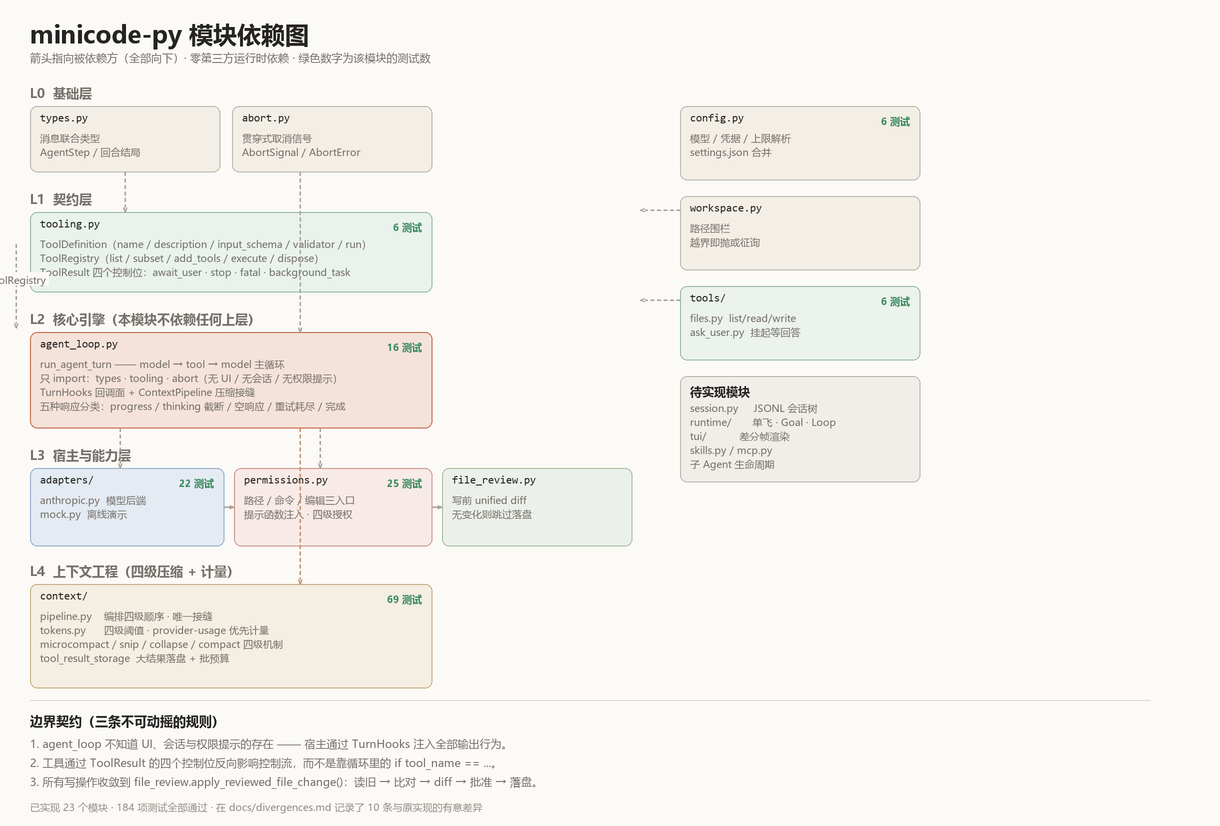
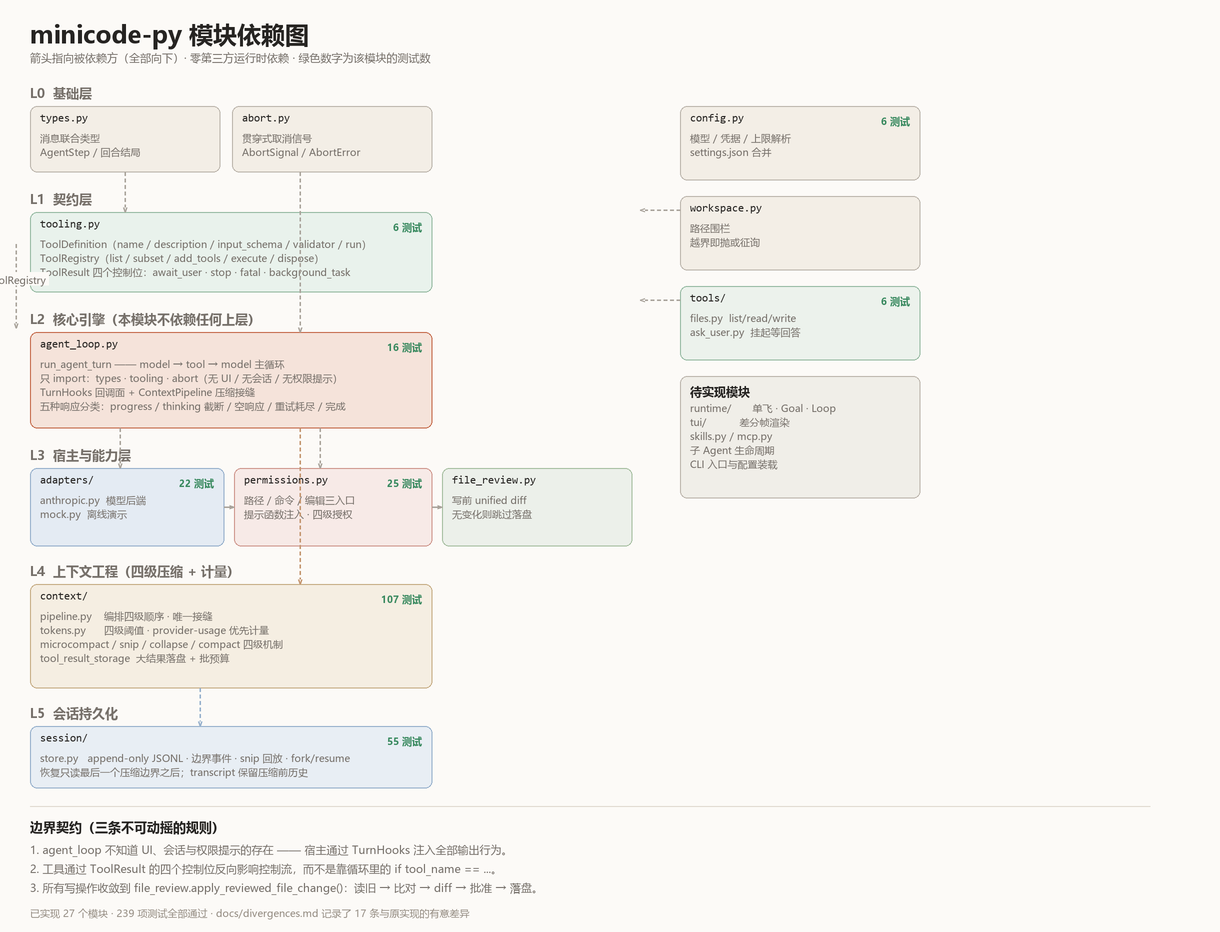
fix(docs): rewrite diagram generator after encoding corruption; add session layer

diff --git a/docs/gen_module_diagram.py b/docs/gen_module_diagram.py
@@ -1,19 +1,22 @@
-# -*- coding: utf-8 -*-
+# -*- coding: utf-8 -*-
 """Render the minicode-py module dependency diagram to PNG (Pillow).
 
 Layered by dependency depth: everything points downward, nothing points up.
+
+NOTE: always edit this file with a UTF-8 aware tool. A previous version was
+mangled by round-tripping it through PowerShell `Get-Content`/`Set-Content`,
+which decoded UTF-8 as the system ANSI codepage and destroyed the CJK text.
 """
 import os
 from PIL import Image, ImageDraw, ImageFont
 
 S = 2
-W, H = 1220, 960
+W, H = 1220, 980
 OUT = os.path.join(os.path.dirname(os.path.abspath(__file__)), "minicode-py-modules.png")
 
 FONT_CJK = r"C:\Windows\Fonts\msyh.ttc"
 FONT_CJK_B = r"C:\Windows\Fonts\msyhbd.ttc"
 FONT_MONO = r"C:\Windows\Fonts\consola.ttf"
-FONT_MONO_B = r"C:\Windows\Fonts\consolab.ttf"
 
 INK = (38, 36, 34)
 MUTED = (118, 112, 106)
@@ -37,7 +40,6 @@ F = {
     "bs": f(FONT_CJK, 10),
     "mono": f(FONT_MONO, 11),
     "mono_b": f(FONT_CJK_B, 12),
-    "mono_s": f(FONT_MONO, 10),
     "tag": f(FONT_CJK_B, 10),
 }
 
@@ -55,8 +57,10 @@ def has_cjk(text):
 
 
 def title_font(text):
-    """绛夊瀛椾綋锛圕onsolas锛夋病鏈変腑鏂囧瓧褰紝鍚腑鏂囨椂蹇呴』鎹㈢敤闆呴粦銆?
-    杩欐鏄箣鍓嶆爣棰樻覆鏌撴垚涔辩爜鐨勫師鍥狅細瀛椾綋缂哄瓧褰笉浼氭姤閿欙紝鍙細鐢诲嚭閿欏瓧銆?    """
+    """Consolas has no CJK glyphs; a missing glyph renders as garbage, silently.
+
+    So any box title containing Chinese must use the CJK face instead.
+    """
     return F["mono"] if not has_cjk(text) else F["mono_b"]
 
 
@@ -65,10 +69,9 @@ def box(x, y, w, h, title, lines, fill, edge, tested=None):
         [px(x), px(y), px(x + w), px(y + h)], radius=px(7), fill=fill,
         outline=edge, width=max(1, px(0.9)),
     )
-    font = title_font(title)
-    d.text((px(x + 10), px(y + 7)), title, font=font, fill=INK)
+    d.text((px(x + 10), px(y + 7)), title, font=title_font(title), fill=INK)
     if tested:
-        label = f"{tested} 娴嬭瘯"
+        label = f"{tested} 测试"
         d.text((px(x + w - 10 - tw(label, F["tag"])), px(y + 8)), label,
                font=F["tag"], fill=GREEN)
     for i, line in enumerate(lines):
@@ -76,8 +79,8 @@ def box(x, y, w, h, title, lines, fill, edge, tested=None):
 
 
 def arrow(x1, y1, x2, y2, color=GREY, dashed=False, label=None, lw=1.3):
+    import math
     if dashed:
-        import math
         dx, dy = x2 - x1, y2 - y1
         dist = math.hypot(dx, dy)
         if dist < 1:
@@ -91,7 +94,6 @@ def arrow(x1, y1, x2, y2, color=GREY, dashed=False, label=None, lw=1.3):
             t += 6.5
     else:
         d.line([px(x1), px(y1), px(x2), px(y2)], fill=color, width=max(1, px(lw)))
-    import math
     ang = math.atan2(y2 - y1, x2 - x1)
     for s in (0.9, -0.9):
         d.line([px(x2), px(y2),
@@ -106,98 +108,95 @@ def arrow(x1, y1, x2, y2, color=GREY, dashed=False, label=None, lw=1.3):
 
 
 # ---------------- header ----------------
-d.text((px(30), px(18)), "minicode-py 妯″潡渚濊禆鍥?, font=F["h1"], fill=INK)
+d.text((px(30), px(18)), "minicode-py 模块依赖图", font=F["h1"], fill=INK)
 d.text((px(30), px(50)),
-       "绠ご鎸囧悜琚緷璧栨柟锛堝叏閮ㄥ悜涓嬶級路 闆剁涓夋柟杩愯鏃朵緷璧?路 缁胯壊鏁板瓧涓鸿妯″潡鐨勬祴璇曟暟",
+       "箭头指向被依赖方（全部向下）· 零第三方运行时依赖 · 绿色数字为该模块的测试数",
        font=F["b"], fill=MUTED)
 
 # ---------------- L0 foundations ----------------
-d.text((px(30), px(84)), "L0  鍩虹灞?, font=F["h2"], fill=MUTED)
-box(30, 106, 190, 66, "types.py", ["娑堟伅鑱斿悎绫诲瀷", "AgentStep / 鍥炲悎缁撳眬"], (243, 238, 230), LINE)
-box(232, 106, 200, 66, "abort.py", ["璐┛寮忓彇娑堜俊鍙?, "AbortSignal / AbortError"], (243, 238, 230), LINE)
+d.text((px(30), px(84)), "L0  基础层", font=F["h2"], fill=MUTED)
+box(30, 106, 190, 66, "types.py", ["消息联合类型", "AgentStep / 回合结局"], (243, 238, 230), LINE)
+box(232, 106, 200, 66, "abort.py", ["贯穿式取消信号", "AbortSignal / AbortError"], (243, 238, 230), LINE)
 
 # ---------------- L1 contract ----------------
-d.text((px(30), px(190)), "L1  濂戠害灞?, font=F["h2"], fill=MUTED)
+d.text((px(30), px(190)), "L1  契约层", font=F["h2"], fill=MUTED)
 box(30, 212, 402, 80, "tooling.py",
-    ["ToolDefinition锛坣ame / description / input_schema / validator / run锛?,
-     "ToolRegistry锛坙ist / subset / add_tools / execute / dispose锛?,
-     "ToolResult 鍥涗釜鎺у埗浣嶏細await_user 路 stop 路 fatal 路 background_task"],
+    ["ToolDefinition（name / description / input_schema / validator / run）",
+     "ToolRegistry（list / subset / add_tools / execute / dispose）",
+     "ToolResult 四个控制位：await_user · stop · fatal · background_task"],
     (233, 242, 236), (150, 186, 162), tested=6)
 
 # ---------------- L2 core ----------------
-d.text((px(30), px(310)), "L2  鏍稿績寮曟搸锛堟湰妯″潡涓嶄緷璧栦换浣曚笂灞傦級", font=F["h2"], fill=MUTED)
+d.text((px(30), px(310)), "L2  核心引擎（本模块不依赖任何上层）", font=F["h2"], fill=MUTED)
 box(30, 332, 402, 96, "agent_loop.py",
-    ["run_agent_turn 鈥斺€?model 鈫?tool 鈫?model 涓诲惊鐜?,
-     "鍙?import锛歵ypes 路 tooling 路 abort锛堟棤 UI / 鏃犱細璇?/ 鏃犳潈闄愭彁绀猴級",
-     "TurnHooks 鍥炶皟闈?+ ContextPipeline 鍘嬬缉鎺ョ紳",
-     "浜旂鍝嶅簲鍒嗙被锛歱rogress / thinking 鎴柇 / 绌哄搷搴?/ 閲嶈瘯鑰楀敖 / 瀹屾垚"],
+    ["run_agent_turn —— model → tool → model 主循环",
+     "只 import：types · tooling · abort（无 UI / 无会话 / 无权限提示）",
+     "TurnHooks 回调面 + ContextPipeline 压缩接缝",
+     "五种响应分类：progress / thinking 截断 / 空响应 / 重试耗尽 / 完成"],
     (245, 227, 218), (196, 106, 74), tested=16)
 
 # ---------------- L3 host-facing ----------------
-d.text((px(30), px(446)), "L3  瀹夸富涓庤兘鍔涘眰", font=F["h2"], fill=MUTED)
-box(30, 468, 194, 78, "adapters/", ["anthropic.py  妯″瀷鍚庣", "mock.py  绂荤嚎婕旂ず"],
+d.text((px(30), px(446)), "L3  宿主与能力层", font=F["h2"], fill=MUTED)
+box(30, 468, 194, 78, "adapters/", ["anthropic.py  模型后端", "mock.py  离线演示"],
     (228, 235, 243), (150, 176, 204), tested=22)
-box(234, 468, 198, 78, "permissions.py", ["璺緞 / 鍛戒护 / 缂栬緫涓夊叆鍙?, "鎻愮ず鍑芥暟娉ㄥ叆 路 鍥涚骇鎺堟潈"],
+box(234, 468, 198, 78, "permissions.py", ["路径 / 命令 / 编辑三入口", "提示函数注入 · 四级授权"],
     (247, 234, 231), (206, 150, 140), tested=25)
-box(442, 468, 190, 78, "file_review.py", ["鍐欏墠 unified diff", "鏃犲彉鍖栧垯璺宠繃钀界洏"],
+box(442, 468, 190, 78, "file_review.py", ["写前 unified diff", "无变化则跳过落盘"],
     (236, 240, 234), (166, 190, 160), tested=0)
 
 # ---------------- L4 context ----------------
-d.text((px(30), px(562)), "L4  涓婁笅鏂囧伐绋嬶紙鍥涚骇鍘嬬缉 + 璁￠噺锛?, font=F["h2"], fill=MUTED)
+d.text((px(30), px(562)), "L4  上下文工程（四级压缩 + 计量）", font=F["h2"], fill=MUTED)
 box(30, 584, 402, 104, "context/",
-    ["pipeline.py    缂栨帓鍥涚骇椤哄簭 路 鍞竴鎺ョ紳",
-     "tokens.py      鍥涚骇闃堝€?路 provider-usage 浼樺厛璁￠噺",
-     "microcompact / snip / collapse / compact 鍥涚骇鏈哄埗",
-     "tool_result_storage  澶х粨鏋滆惤鐩?+ 鎵归绠?],
+    ["pipeline.py    编排四级顺序 · 唯一接缝",
+     "tokens.py      四级阈值 · provider-usage 优先计量",
+     "microcompact / snip / collapse / compact 四级机制",
+     "tool_result_storage  大结果落盘 + 批预算"],
     (245, 238, 226), (198, 172, 132), tested=107)
 
 # ---------------- L5 session ----------------
-d.text((px(30), px(704)), "L5  浼氳瘽鎸佷箙鍖?, font=F["h2"], fill=MUTED)
+d.text((px(30), px(704)), "L5  会话持久化", font=F["h2"], fill=MUTED)
 box(30, 726, 402, 62, "session/",
-    ["store.py   append-only JSONL 路 杈圭晫浜嬩欢 路 snip 鍥炴斁 路 fork/resume",
-     "鎭㈠鍙鏈€鍚庝竴涓帇缂╄竟鐣屼箣鍚庯紱transcript 淇濈暀鍘嬬缉鍓嶅巻鍙?],
+    ["store.py   append-only JSONL · 边界事件 · snip 回放 · fork/resume",
+     "恢复只读最后一个压缩边界之后；transcript 保留压缩前历史"],
     (232, 238, 244), (150, 176, 204), tested=55)
 
-# ---------------- right column: consumers ----------------
-box(680, 106, 240, 74, "config.py", ["妯″瀷 / 鍑嵁 / 涓婇檺瑙ｆ瀽", "settings.json 鍚堝苟"], (243, 238, 230), LINE, tested=6)
-box(680, 196, 240, 74, "workspace.py", ["璺緞鍥存爮", "瓒婄晫鍗虫姏鎴栧緛璇?], (243, 238, 230), LINE, tested=0)
-box(680, 286, 240, 74, "tools/", ["files.py  list/read/write", "ask_user.py  鎸傝捣绛夊洖绛?], (236, 242, 236), (150, 186, 162), tested=6)
-
-box(680, 376, 240, 106, "寰呭疄鐜版ā鍧?,
-    ["runtime/       鍗曢 路 Goal 路 Loop", "tui/           宸垎甯ф覆鏌?,
-     "skills.py / mcp.py", "瀛?Agent 鐢熷懡鍛ㄦ湡", "CLI 鍏ュ彛涓庨厤缃杞?], (240, 238, 232), LINE)
+# ---------------- right column ----------------
+box(680, 106, 240, 74, "config.py", ["模型 / 凭据 / 上限解析", "settings.json 合并"],
+    (243, 238, 230), LINE, tested=6)
+box(680, 196, 240, 74, "workspace.py", ["路径围栏", "越界即抛或征询"],
+    (243, 238, 230), LINE, tested=0)
+box(680, 286, 240, 74, "tools/", ["files.py  list/read/write", "ask_user.py  挂起等回答"],
+    (236, 242, 236), (150, 186, 162), tested=6)
+box(680, 376, 240, 122, "待实现模块",
+    ["runtime/       单飞 · Goal · Loop", "tui/           差分帧渲染",
+     "skills.py / mcp.py", "子 Agent 生命周期", "CLI 入口与配置装载"],
+    (240, 238, 232), LINE)
 
 # ---------------- dependency arrows ----------------
-# L0 -> L1
-arrow(125, 172, 125, 212, dashed=True)
-# L0 -> L2
-arrow(300, 172, 300, 332, dashed=True)
-# L1 -> L2锛堟爣娉ㄦ斁鍦ㄥ乏渚х┖鐧斤紝閬垮厤鍘嬩綇濂戠害灞傛鏂囷級
-arrow(16, 244, 16, 328, label="ToolRegistry", dashed=True)
-# L2 -> L3
-arrow(120, 428, 120, 468, dashed=True)
+arrow(125, 172, 125, 212, dashed=True)                     # L0 -> L1
+arrow(300, 172, 300, 332, dashed=True)                     # L0 -> L2
+arrow(16, 244, 16, 328, label="ToolRegistry", dashed=True)  # L1 -> L2
+arrow(120, 428, 120, 468, dashed=True)                     # L2 -> L3
 arrow(320, 428, 320, 468, dashed=True)
-# L2 -> L4锛坅gent_loop 閫氳繃 ContextPipeline 鎺ョ紳璋冪敤 context锛?arrow(300, 428, 300, 584, color=(196, 150, 112), dashed=True)
-# L4 -> L5锛坈ontext 鐨勮竟鐣屼簨浠剁敱 session 钀界洏锛?arrow(200, 688, 200, 726, color=(150, 176, 204), dashed=True)
-# L3 internal
-arrow(224, 507, 234, 507)
+arrow(300, 428, 300, 584, color=(196, 150, 112), dashed=True)  # L2 -> L4
+arrow(200, 688, 200, 726, color=(150, 176, 204), dashed=True)  # L4 -> L5
+arrow(224, 507, 234, 507)                                  # L3 内部
 arrow(432, 507, 442, 507)
-# right column deps
-arrow(680, 300, 640, 300, dashed=True)
+arrow(680, 300, 640, 300, dashed=True)                     # 右列依赖
 arrow(680, 210, 640, 210, dashed=True)
 
-# ---------------- footer note ----------------
+# ---------------- footer ----------------
 d.line([px(30), px(806), px(1150), px(806)], fill=(224, 218, 208), width=max(1, px(0.9)))
-d.text((px(30), px(818)), "杈圭晫濂戠害锛堜笁鏉′笉鍙姩鎽囩殑瑙勫垯锛?, font=F["h2"], fill=INK)
+d.text((px(30), px(818)), "边界契约（三条不可动摇的规则）", font=F["h2"], fill=INK)
 notes = [
-    "1. agent_loop 涓嶇煡閬?UI銆佷細璇濅笌鏉冮檺鎻愮ず鐨勫瓨鍦?鈥斺€?瀹夸富閫氳繃 TurnHooks 娉ㄥ叆鍏ㄩ儴杈撳嚭琛屼负銆?,
-    "2. 宸ュ叿閫氳繃 ToolResult 鐨勫洓涓帶鍒朵綅鍙嶅悜褰卞搷鎺у埗娴侊紝鑰屼笉鏄潬寰幆閲岀殑 if tool_name == ...銆?,
-    "3. 鎵€鏈夊啓鎿嶄綔鏀舵暃鍒?file_review.apply_reviewed_file_change()锛氳鏃?鈫?姣斿 鈫?diff 鈫?鎵瑰噯 鈫?钀界洏銆?,
+    "1. agent_loop 不知道 UI、会话与权限提示的存在 —— 宿主通过 TurnHooks 注入全部输出行为。",
+    "2. 工具通过 ToolResult 的四个控制位反向影响控制流，而不是靠循环里的 if tool_name == ...。",
+    "3. 所有写操作收敛到 file_review.apply_reviewed_file_change()：读旧 → 比对 → diff → 批准 → 落盘。",
 ]
 for i, note in enumerate(notes):
     d.text((px(30), px(842 + i * 19)), note, font=F["b"], fill=MUTED)
 d.text((px(30), px(906)),
-       "宸插疄鐜?27 涓ā鍧?路 239 椤规祴璇曞叏閮ㄩ€氳繃 路 鍦?docs/divergences.md 璁板綍浜?17 鏉′笌鍘熷疄鐜扮殑鏈夋剰宸紓",
+       "已实现 27 个模块 · 239 项测试全部通过 · docs/divergences.md 记录了 17 条与原实现的有意差异",
        font=F["bs"], fill=(150, 142, 132))
 
 img = img.crop((0, 0, W * S, 932 * S)).resize((W, 932), Image.LANCZOS)
